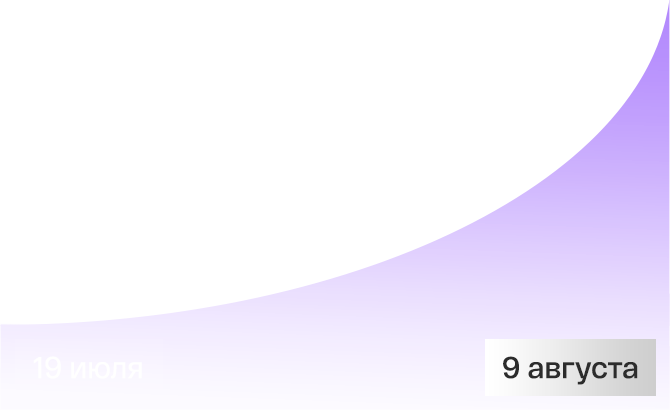
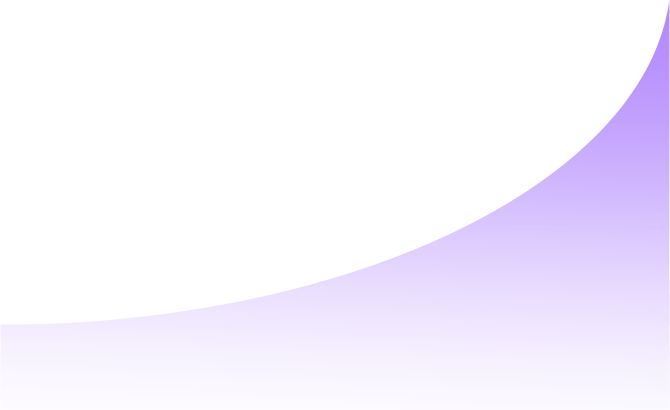
v 0.4.1
Мелкие фиксы

Changed region(s): [[0.7463, 0.8195, 0.9851, 0.9659]]

diff --git a/build/assets/html/quiz.html b/build/assets/html/quiz.html
@@ -79,14 +79,16 @@
                   <div class="input-radio-desc-text">Легко набирает вес по сравнению с другими типами тела.</div>
                 </div>
               </label>
-            </div>
-            <div class="quiz-extra-content">
-              <div class="quiz-extra-content-column quiz-extra-content-img"><img src="./assets/images/q-1_2.webp" loading="lazy"></div>
-              <div class="quiz-extra-content-column">
-                <h4>Тест для определения типа тела</h4>
-                <p>Захватите противоположное запястье большим и указательным пальцами. Если вы правша, схватите левое запястье правой рукой. Помните, нет хороших или плохих типов тела.</p>
-                <h4>Большой и указательный палец:</h4>
-                <p>Эктоморф - обертывание с легкостью<br>Мезоморф - прикосновения друг к другу<br>Эндоморф - не вступает в контакт</p>
+              <div class="quiz-extra-content">
+                <div class="quiz-extra-content-column quiz-extra-content-img"><img src="./assets/images/q-1_2.webp" loading="lazy"></div>
+                <div class="quiz-extra-content-column">
+                  <div class="quiz-extra-content-text">
+                    <h4>Тест для определения типа тела</h4>
+                    <p>Захватите противоположное запястье большим и указательным пальцами. Если вы правша, схватите левое        запястье правой рукой. Помните, нет хороших или плохих типов тела.</p>
+                    <h4>Большой и указательный палец:</h4>
+                    <p>Эктоморф - обертывание с легкостью<br>Мезоморф - прикосновения друг к другу<br>Эндоморф - не вступает в контакт</p>
+                  </div>
+                </div>
               </div>
             </div>
           </div>

diff --git a/build/quiz.html b/build/quiz.html
@@ -79,14 +79,16 @@
                   <div class="input-radio-desc-text">Легко набирает вес по сравнению с другими типами тела.</div>
                 </div>
               </label>
-            </div>
-            <div class="quiz-extra-content">
-              <div class="quiz-extra-content-column quiz-extra-content-img"><img src="./assets/images/q-1_2.webp" loading="lazy"></div>
-              <div class="quiz-extra-content-column">
-                <h4>Тест для определения типа тела</h4>
-                <p>Захватите противоположное запястье большим и указательным пальцами. Если вы правша, схватите левое запястье правой рукой. Помните, нет хороших или плохих типов тела.</p>
-                <h4>Большой и указательный палец:</h4>
-                <p>Эктоморф - обертывание с легкостью<br>Мезоморф - прикосновения друг к другу<br>Эндоморф - не вступает в контакт</p>
+              <div class="quiz-extra-content">
+                <div class="quiz-extra-content-column quiz-extra-content-img"><img src="./assets/images/q-1_2.webp" loading="lazy"></div>
+                <div class="quiz-extra-content-column">
+                  <div class="quiz-extra-content-text">
+                    <h4>Тест для определения типа тела</h4>
+                    <p>Захватите противоположное запястье большим и указательным пальцами. Если вы правша, схватите левое        запястье правой рукой. Помните, нет хороших или плохих типов тела.</p>
+                    <h4>Большой и указательный палец:</h4>
+                    <p>Эктоморф - обертывание с легкостью<br>Мезоморф - прикосновения друг к другу<br>Эндоморф - не вступает в контакт</p>
+                  </div>
+                </div>
               </div>
             </div>
           </div>

diff --git a/build/assets/html/includes/quiz/quiz.html b/build/assets/html/includes/quiz/quiz.html
@@ -65,14 +65,16 @@
               <div class="input-radio-desc-text">Легко набирает вес по сравнению с другими типами тела.</div>
             </div>
           </label>
-        </div>
-        <div class="quiz-extra-content">
-          <div class="quiz-extra-content-column quiz-extra-content-img"><img src="./assets/images/q-1_2.webp" loading="lazy"/></div>
-          <div class="quiz-extra-content-column">
-            <h4>Тест для определения типа тела</h4>
-            <p>Захватите противоположное запястье большим и указательным пальцами. Если вы правша, схватите левое запястье правой рукой. Помните, нет хороших или плохих типов тела.</p>
-            <h4>Большой и указательный палец:</h4>
-            <p>Эктоморф - обертывание с легкостью<br/>Мезоморф - прикосновения друг к другу<br/>Эндоморф - не вступает в контакт</p>
+          <div class="quiz-extra-content">
+            <div class="quiz-extra-content-column quiz-extra-content-img"><img src="./assets/images/q-1_2.webp" loading="lazy"/></div>
+            <div class="quiz-extra-content-column">
+              <div class="quiz-extra-content-text">
+                <h4>Тест для определения типа тела</h4>
+                <p>Захватите противоположное запястье большим и указательным пальцами. Если вы правша, схватите левое        запястье правой рукой. Помните, нет хороших или плохих типов тела.</p>
+                <h4>Большой и указательный палец:</h4>
+                <p>Эктоморф - обертывание с легкостью<br/>Мезоморф - прикосновения друг к другу<br/>Эндоморф - не вступает в контакт</p>
+              </div>
+            </div>
           </div>
         </div>
       </div>

diff --git a/build/assets/html/payment.html b/build/assets/html/payment.html
@@ -26,7 +26,22 @@
           <div class="link-banner-text"> <span>План питания для поддержания формы</span></div></a><a class="link-banner white" href="#"><img src="./assets/images/man.webp" alt="" loading="lazy">
           <div class="link-banner-text"><span>Ежедневная тренировка от тренера ManMuscles</span></div></a></div>
       <div class="payment-content">
-        <h2>Получите свой<br>план за</h2>
+        <div class="payment-content-column">
+          <div class="payment-content-arrow">
+            <h2>Получите <br>свой план за</h2>
+            <div class="payment-content-price"><span>345р</span><span>в неделю</span></div><img src="./assets/images/arrow.webp" alt="" loading="lazy">
+          </div><a class="btn-large" href="#">оформить заказ</a>
+        </div>
+        <div class="payment-content-column">
+          <div class="payment-content-image"><img src="./assets/images/graphics.webp" alt="" loading="lazy">
+            <div class="payment-content-graphics-from">75кг</div>
+            <div class="payment-content-graphics-to">Ваша цель</div>
+            <div class="payment-content-graphics-dates"> 
+              <div class="graphics-dates__start">19 июля</div>
+              <div class="graphics-dates__end">9 августа</div>
+            </div>
+          </div>
+        </div>
       </div>
       <div class="input-group">
         <label class="input-item">

diff --git a/app/static/scss/modules/payment/payment.scss b/app/static/scss/modules/payment/payment.scss
@@ -258,10 +258,74 @@
 
 .payment-content-image {
     width: 100%;
+    position: relative;
+
+    img {
+        width: 100%;
+    }
+}
+
+.payment-content-graphics-from,
+.payment-content-graphics-to {
+    position: absolute;
+    padding: 16px;
+    font-size: 18px;
+
+    @include respond-to (medium) {
+        font-size: 14px;
+        padding: 8px;
+    }
+}
+
+.payment-content-graphics-to {
+    top: 0;
+    right: 0;
+}
+
+.payment-content-graphics-from {
+    bottom: 30%;
+    left: 0;
+}
+
+.payment-content-graphics-dates {
+    position: absolute;
+    bottom: 0;
+    left: 0;
+    padding: 16px;
+    display: flex;
+    justify-content: space-between;
+    width: 100%;
+
+    @include respond-to (medium) {
+        padding: 12px 8px;
+    }
+}
+
+.graphics-dates__start,
+.graphics-dates__end {
+    font-size: 24px;
+    padding: 8px 16px;
+    font-weight: 600;
+
+    @include respond-to (medium) {
+        font-size: 16px;
+        // padding: 8px;
+    }
+}
+
+.graphics-dates__start {
+    background-color: rgba(255, 255, 255, 0.075);
+    color: #fff;
+}
+
+.graphics-dates__end {
+    color: #000;
+    background-color: #fff;
 }
 
 .payment-content-arrow {
     position: relative;
+
     img {
         position: absolute;
         bottom: 0;
@@ -269,6 +333,7 @@
         width: 100%;
         height: 90%;
         object-fit: contain;
+
         @include respond-to (medium) {
             width: 50%;
             right: 20px;

diff --git a/build/assets/html/includes/payment/main.html b/build/assets/html/includes/payment/main.html
@@ -12,7 +12,22 @@
       <div class="link-banner-text"> <span>План питания для поддержания формы</span></div></a><a class="link-banner white" href="#"><img src="./assets/images/man.webp" alt="" loading="lazy"/>
       <div class="link-banner-text"><span>Ежедневная тренировка от тренера ManMuscles</span></div></a></div>
   <div class="payment-content">
-    <h2>Получите свой<br/>план за</h2>
+    <div class="payment-content-column">
+      <div class="payment-content-arrow">
+        <h2>Получите <br/>свой план за</h2>
+        <div class="payment-content-price"><span>345р</span><span>в неделю</span></div><img src="./assets/images/arrow.webp" alt="" loading="lazy"/>
+      </div><a class="btn-large" href="#">оформить заказ</a>
+    </div>
+    <div class="payment-content-column">
+      <div class="payment-content-image"><img src="./assets/images/graphics.webp" alt="" loading="lazy"/>
+        <div class="payment-content-graphics-from">75кг</div>
+        <div class="payment-content-graphics-to">Ваша цель</div>
+        <div class="payment-content-graphics-dates"> 
+          <div class="graphics-dates__start">19 июля</div>
+          <div class="graphics-dates__end">9 августа</div>
+        </div>
+      </div>
+    </div>
   </div>
   <div class="input-group">
     <label class="input-item">

diff --git a/build/css/main.css b/build/css/main.css
@@ -731,6 +731,74 @@ footer {
 
 .payment-content-image {
   width: 100%;
+  position: relative;
+}
+.payment-content-image img {
+  width: 100%;
+}
+
+.payment-content-graphics-from,
+.payment-content-graphics-to {
+  position: absolute;
+  padding: 16px;
+  font-size: 18px;
+}
+@media only screen and (max-width: 991.9px) {
+  .payment-content-graphics-from,
+.payment-content-graphics-to {
+    font-size: 14px;
+    padding: 8px;
+  }
+}
+
+.payment-content-graphics-to {
+  top: 0;
+  right: 0;
+}
+
+.payment-content-graphics-from {
+  bottom: 30%;
+  left: 0;
+}
+
+.payment-content-graphics-dates {
+  position: absolute;
+  bottom: 0;
+  left: 0;
+  padding: 16px;
+  display: -ms-flexbox;
+  display: flex;
+  -ms-flex-pack: justify;
+      justify-content: space-between;
+  width: 100%;
+}
+@media only screen and (max-width: 991.9px) {
+  .payment-content-graphics-dates {
+    padding: 12px 8px;
+  }
+}
+
+.graphics-dates__start,
+.graphics-dates__end {
+  font-size: 24px;
+  padding: 8px 16px;
+  font-weight: 600;
+}
+@media only screen and (max-width: 991.9px) {
+  .graphics-dates__start,
+.graphics-dates__end {
+    font-size: 16px;
+  }
+}
+
+.graphics-dates__start {
+  background-color: rgba(255, 255, 255, 0.075);
+  color: #fff;
+}
+
+.graphics-dates__end {
+  color: #000;
+  background-color: #fff;
 }
 
 .payment-content-arrow {

diff --git a/build/payment.html b/build/payment.html
@@ -32,7 +32,16 @@
             <div class="payment-content-price"><span>345р</span><span>в неделю</span></div><img src="./assets/images/arrow.webp" alt="" loading="lazy">
           </div><a class="btn-large" href="#">оформить заказ</a>
         </div>
-        <div class="payment-content-column"><img class="payment-content-image" src="./assets/images/graphics.webp" alt="" loading="lazy"></div>
+        <div class="payment-content-column">
+          <div class="payment-content-image"><img src="./assets/images/graphics.webp" alt="" loading="lazy">
+            <div class="payment-content-graphics-from">75кг</div>
+            <div class="payment-content-graphics-to">Ваша цель</div>
+            <div class="payment-content-graphics-dates"> 
+              <div class="graphics-dates__start">19 июля</div>
+              <div class="graphics-dates__end">9 августа</div>
+            </div>
+          </div>
+        </div>
       </div>
       <div class="input-group">
         <label class="input-item">
